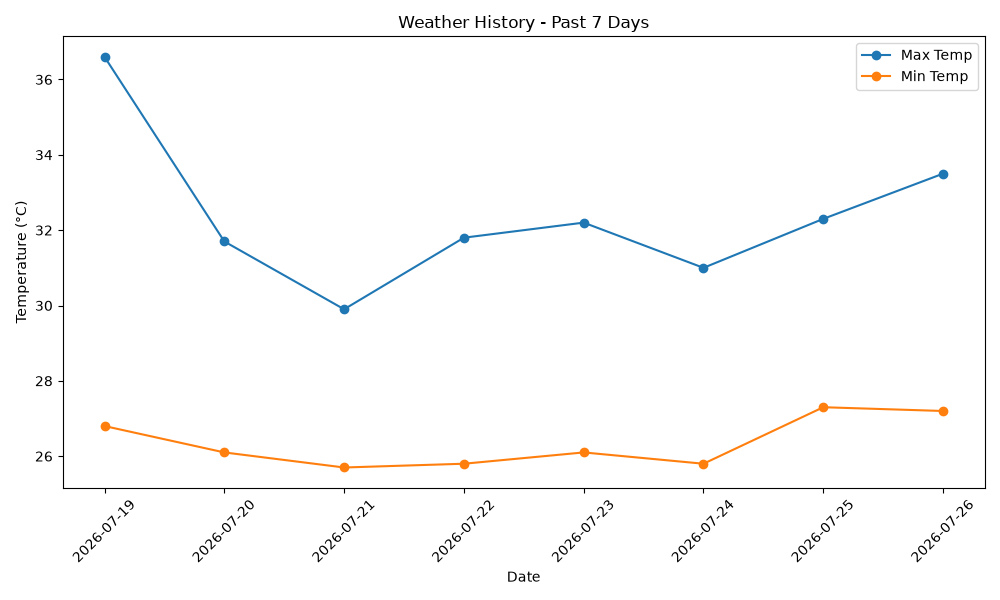
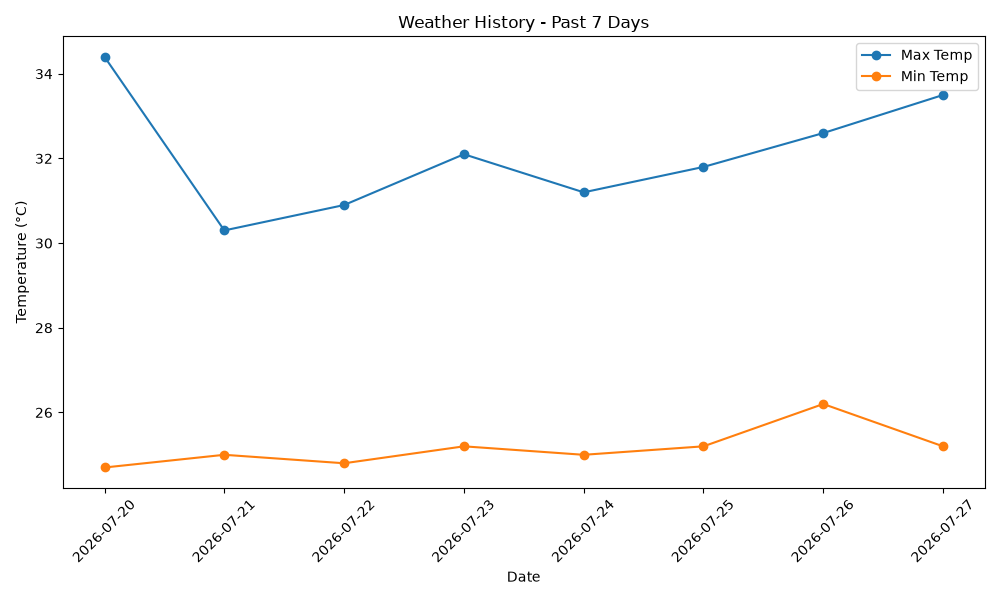
Add Streamlit web interface for AI assistant

diff --git a/app.py b/app.py
@@ -1,0 +1,76 @@
+import streamlit as st
+from langchain_core.messages import HumanMessage
+
+from main import create_chatbot
+
+# Create the chatbot
+agent = create_chatbot()
+
+# Page configuration
+st.set_page_config(
+    page_title="AI Assistant",
+    page_icon="🤖",
+    layout="centered"
+)
+
+st.title("🤖 AI Assistant")
+st.write("Ask me anything!")
+
+# Store chat history
+if "messages" not in st.session_state:
+    st.session_state.messages = []
+
+# Display previous messages
+for message in st.session_state.messages:
+    with st.chat_message(message["role"]):
+        st.markdown(message["content"])
+
+# Chat input
+prompt = st.chat_input("Type your message...")
+
+if prompt:
+
+    # Display user message
+    with st.chat_message("user"):
+        st.markdown(prompt)
+
+    st.session_state.messages.append(
+        {
+            "role": "user",
+            "content": prompt
+        }
+    )
+
+    # Generate response
+    answer = ""
+
+    with st.chat_message("assistant"):
+
+        placeholder = st.empty()
+
+        try:
+            for chunk in agent.stream(
+                {
+                    "messages": [
+                        HumanMessage(content=prompt)
+                    ]
+                }
+            ):
+
+                if "model" in chunk:
+                    for message in chunk["model"]["messages"]:
+                        answer += message.content
+                        placeholder.markdown(answer + "▌")
+
+            placeholder.markdown(answer)
+
+        except Exception as e:
+            answer = f"❌ Error:\n\n{e}"
+            placeholder.markdown(answer)
+
+    st.session_state.messages.append(
+        {
+            "role": "assistant",
+            "content": answer
+        }
+    )

diff --git a/main.py b/main.py
@@ -207,8 +207,7 @@ def calculator(a: float, b: float) -> str:
     
     return f"The sum of {a} and {b} is {a + b}"
 
-
-def main():
+def create_chatbot():
     model = ChatOpenAI(
         model="nvidia/nemotron-3-ultra-550b-a55b:free",
         temperature=0,
@@ -216,9 +215,18 @@ def main():
         api_key=os.getenv("OPENROUTER_API_KEY"),
     )
 
-    tools = [calculator, current_weather, weather_history, translator, currency_converter, ]
+    tools = [
+        calculator,
+        current_weather,
+        weather_history,
+        translator,
+        currency_converter,
+    ]
 
-    agent_executor = create_agent(model, tools)
+    return create_agent(model, tools)
+
+def main():
+    agent_executor = create_chatbot()
 
     print("Welcome! I'm your AI assistant. Type 'quit' to exit")
     print("You can ask me to perform calculations or chat with me")
